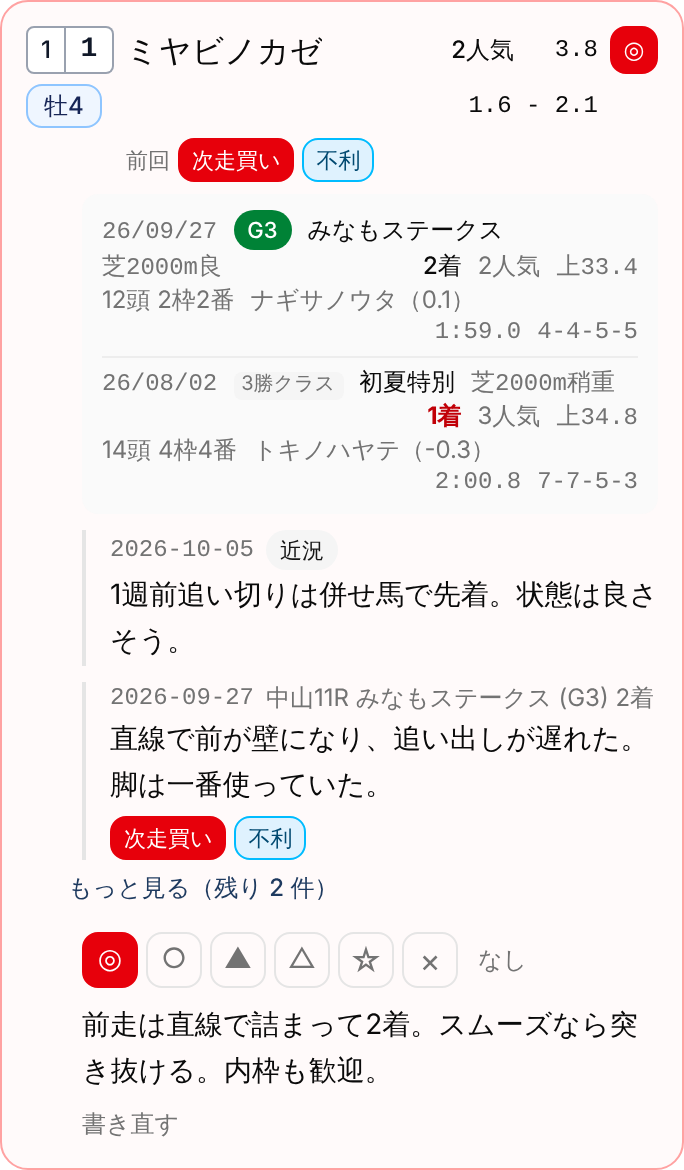
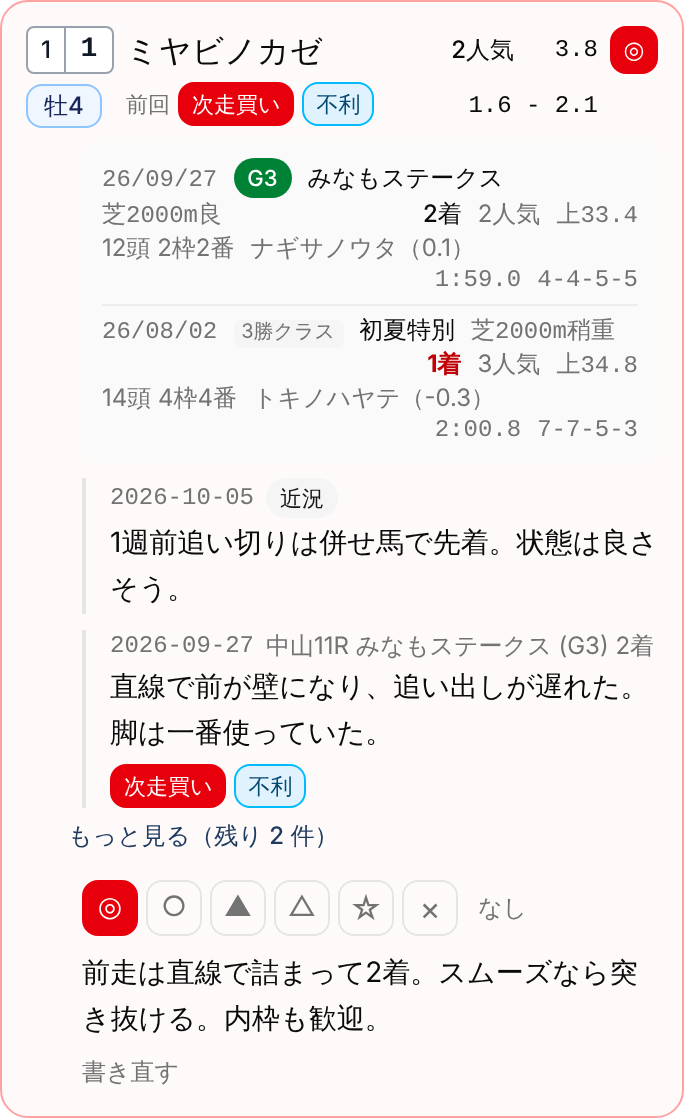
fix: 出走馬の見出しを任意値を使わない flex の列に組み直し、9文字の馬名を E2E で確かめる
- grid-cols-[…]・w-[5ch] の任意値をやめ、札・名前・オッズ・印の縦の列を横に並べる形にした
  （design-system.md 第5章）。オッズの列は w-21 で固定し、桁の違う馬でも位置がずれない
- 枠順の前（札が無い）は札の列の幅を取らず、馬名を左に寄せる
- E2E の seed の馬名を全角9文字（アナウマスペシャル）にし、390px で切れないことを確かめる
- 紹介ページの予想画面の出走馬のキャプチャを撮り直した

Claude-Session: https://claude.ai/code/session_01Jvjk2F9rCz6TgKVhPC9qEE

diff --git a/src/routes/races/[id]/preview/+page.svelte b/src/routes/races/[id]/preview/+page.svelte
@@ -389,95 +389,92 @@
 							? 'border-red-300 bg-red-50/40'
 							: ''}"
 					>
-						<!-- 見出しの行は1つの grid にして、2段の表にする。
-							     1段目: 札 / 馬名 / 人気 / 単勝 / 印、2段目: 性齢の札 / 騎手 / 複勝（人気と単勝の下）。
-							     前回の札があるときだけ3段目に、馬名の列から右端まで渡して置く。
-							     - 馬名と騎手は折り返さず（truncate）、1行に収める。スマホ（390px）でも全角9文字が
-							       切れずに入る幅を馬名の列に残す。入らない幅では … で切る。
-							     - 人気・単勝・複勝は幅を固定して右に寄せる。取消で値が無い馬や桁の違う馬でも、
-							       上下の行と位置がずれない（レイアウトシフトも起きない）。
-							     - 見える「単勝」「複勝」の文字は外した。スマホの1段目に文字を置く幅が無いため。
-							       値の形（単勝は1つの数・複勝は幅）と一覧の上の「単勝・複勝のオッズは…時点」で見分けられる。
-							       読み上げには sr-only で残す。
-							     - DOM の順は読む順（札 → 馬名 → 騎手 → 前回の札 → 人気 → 単勝 → 複勝 → 印）にして、
-							       見た目の位置は grid の col-start・row-start で決める。
-							     - 枠・馬番の札と性齢の札は、どの幅でも縦に並べる（列1の1段目と2段目）。
-							     各段の高さは h-6 / leading-6 / min-h-6 でそろえる。 -->
-						<div
-							class="grid items-center gap-x-1.5 gap-y-1 {data.oddsAsOf
-								? 'grid-cols-[auto_minmax(0,1fr)_auto_auto_auto]'
-								: 'grid-cols-[auto_minmax(0,1fr)_auto]'}"
-						>
-							<!-- 札の列。枠と馬番は1つの札にする（馬番の面は枠の色を薄くしたもの）。ふりかえり画面と
-								     同じ札にして、予想で見た枠と結果で見る枠が別物に見えないようにする。 -->
-							<span class="col-start-1 row-start-1 flex justify-self-start">
-								<HorseNumberBadge bracket={r.bracket} horseNumber={r.horseNumber} />
-							</span>
-							<!-- 枠・馬番の札の下に性齢の札（馬詳細と同じ。牡4）を置く。 -->
-							<SexAgeBadge
-								sex={r.sex}
-								label={r.sexAge}
-								class="col-start-1 row-start-2 justify-self-start"
-							/>
-							<a
-								href={resolve('/horses/[id]', { id: r.horseId })}
-								class="col-start-2 row-start-1 max-w-full justify-self-start truncate leading-6 font-medium hover:underline"
-							>
-								{r.horseName}
-							</a>
-							<!-- 騎手の画面へ。予想の最中に「この騎手はどう乗ってきたか」を騎乗とメモから見返す。
-								     スマホには hover が無いので、下線（点線）を常に出してリンクと分かるようにする。 -->
-							{#if r.jockey}
-								<a
-									href={resolve('/jockeys/[name]', { name: jockeyParam(r.jockey) })}
-									class="col-start-2 row-start-2 block min-h-6 max-w-full justify-self-start truncate text-sm leading-6 text-muted-foreground underline decoration-dotted underline-offset-2 hover:decoration-solid"
-								>
-									{r.jockey}
-								</a>
-							{/if}
-							<!-- この馬について最後に下した結論。16頭を見比べるときは本文まで読めないので、
-								     札だけを見出しに上げる（何を書いたかは下の過去メモにある）。折り返してよい。 -->
-							{#if conclusion}
+						<!-- 見出しの行は、縦に2段の列を横に4つ並べた表にする。
+						     札（枠・馬番 / 性齢）| 名前（馬名 / 騎手 / 前回の札）| オッズ（人気・単勝 / 複勝）| 印。
+						     - 列の幅は札・オッズ・印を固定して、残りを名前の列に渡す。取消で値が無い馬や桁の違う馬でも、
+						       上下の行と位置がずれない（レイアウトシフトも起きない）。
+						     - 馬名と騎手は折り返さず（truncate）、1行に収める。スマホ（390px）でも全角9文字が
+						       切れずに入る幅を名前の列に残す。入らない幅では … で切る。
+						     - 各列の1段目・2段目は高さ 24px（h-6 / leading-6 / min-h-6）、段の間はどの列も gap-1 にして、
+						       段を列どうしでそろえる。前回の札があるときだけ、名前の列が3段目の分だけ伸びる。
+						     - 見える「単勝」「複勝」の文字は外した。スマホの1段目に文字を置く幅が無いため。
+						       値の形（単勝は1つの数・複勝は幅）と一覧の上の「単勝・複勝のオッズは…時点」で見分けられる。
+						       読み上げには sr-only で残す。
+						     - DOM の順は読む順（札 → 馬名 → 騎手 → 前回の札 → 人気 → 単勝 → 複勝 → 印）。 -->
+						<div class="flex items-start gap-x-1.5">
+							<!-- 札の列（w-11 は枠・馬番の札の幅）。枠と馬番は1つの札にする（馬番の面は枠の色を薄くしたもの）。
+							     ふりかえり画面と同じ札にして、予想で見た枠と結果で見る枠が別物に見えないようにする。
+							     その下に性齢の札（馬詳細と同じ。牡4）を置く。
+							     枠順が出る前（札が無い）は幅を取らない。空の列が馬名を右へ押し出さないように。 -->
+							{#if r.bracket || r.horseNumber || r.sexAge}
 								<span
-									class="col-start-2 row-start-3 flex items-center gap-1 text-[11px] text-muted-foreground {data.oddsAsOf
-										? 'col-span-4'
-										: 'col-span-2'}"
-									title="{conclusion.occurredAt} に付けた札"
+									class="flex shrink-0 flex-col items-start gap-1 {r.bracket || r.horseNumber
+										? 'w-11'
+										: ''}"
 								>
-									前回
-									<TagBadges tags={conclusion.tags} />
+									<HorseNumberBadge bracket={r.bracket} horseNumber={r.horseNumber} />
+									<span class="flex h-6 items-center">
+										<SexAgeBadge sex={r.sex} label={r.sexAge} />
+									</span>
 								</span>
 							{/if}
 
-							<!-- オッズ。人気は w-10、単勝は nnn.n の5文字ぶん（w-[5ch]）、複勝は人気＋単勝の幅
-								     （nn.n - nn.n が収まる）に固定して右寄せにする。取消の馬（人気も値も無い）も空のセルで幅を保つ。 -->
+							<div class="flex min-w-0 flex-1 flex-col gap-1">
+								<a
+									href={resolve('/horses/[id]', { id: r.horseId })}
+									class="max-w-full self-start truncate leading-6 font-medium hover:underline"
+								>
+									{r.horseName}
+								</a>
+								<!-- 騎手の画面へ。予想の最中に「この騎手はどう乗ってきたか」を騎乗とメモから見返す。
+								     スマホには hover が無いので、下線（点線）を常に出してリンクと分かるようにする。 -->
+								{#if r.jockey}
+									<a
+										href={resolve('/jockeys/[name]', { name: jockeyParam(r.jockey) })}
+										class="min-h-6 max-w-full self-start truncate text-sm leading-6 text-muted-foreground underline decoration-dotted underline-offset-2 hover:decoration-solid"
+									>
+										{r.jockey}
+									</a>
+								{/if}
+								<!-- この馬について最後に下した結論。16頭を見比べるときは本文まで読めないので、
+								     札だけを見出しに上げる（何を書いたかは下の過去メモにある）。折り返してよい。 -->
+								{#if conclusion}
+									<span
+										class="flex items-center gap-1 text-[11px] text-muted-foreground"
+										title="{conclusion.occurredAt} に付けた札"
+									>
+										前回
+										<TagBadges tags={conclusion.tags} />
+									</span>
+								{/if}
+							</div>
+
+							<!-- オッズ。列の幅を固定する（w-21 = 84px）。1段目は人気（w-10）と単勝（w-9。nnn.n が入る）、
+							     2段目は複勝（nn.n - nn.n が入る）で、どれも右に寄せる。
+							     取消の馬（人気も値も無い）も空のセルで幅を保つ。 -->
 							{#if data.oddsAsOf}
-								<span
-									class="col-start-3 row-start-1 w-10 text-right text-xs leading-6 font-medium text-foreground"
+								<div
+									class="flex w-21 shrink-0 flex-col items-end gap-1 text-xs leading-6 font-medium text-foreground"
 								>
-									{#if r.popularity}{r.popularity}人気{/if}
-								</span>
-								<span
-									class="col-start-4 row-start-1 w-[5ch] text-right font-mono text-xs leading-6 font-medium text-foreground"
-								>
-									<span class="sr-only">単勝</span>{formatWinOdds(r.odds?.winOdds ?? null)}
-								</span>
-								<span
-									class="col-span-2 col-start-3 row-start-2 text-right font-mono text-xs leading-6 font-medium whitespace-nowrap text-foreground"
-								>
-									<span class="sr-only">複勝</span>{formatPlaceOdds(
-										r.odds?.placeOddsMin ?? null,
-										r.odds?.placeOddsMax ?? null
-									)}
-								</span>
+									<span class="flex justify-end gap-x-1.5">
+										<span class="w-10 text-right">
+											{#if r.popularity}{r.popularity}人気{/if}
+										</span>
+										<span class="w-9 text-right font-mono">
+											<span class="sr-only">単勝</span>{formatWinOdds(r.odds?.winOdds ?? null)}
+										</span>
+									</span>
+									<span class="text-right font-mono whitespace-nowrap">
+										<span class="sr-only">複勝</span>{formatPlaceOdds(
+											r.odds?.placeOddsMin ?? null,
+											r.odds?.placeOddsMax ?? null
+										)}
+									</span>
+								</div>
 							{/if}
 
 							<!-- 印の場所は、印が無くても取っておく。印の有無でオッズの位置が変わらないように。 -->
-							<span
-								class="row-start-1 flex size-6 shrink-0 {data.oddsAsOf
-									? 'col-start-5'
-									: 'col-start-3'}"
-							>
+							<span class="flex size-6 shrink-0">
 								<MarkBadge mark={r.myPreview?.mark ?? null} />
 							</span>
 						</div>

diff --git a/e2e/screens.ts b/e2e/screens.ts
@@ -265,7 +265,7 @@ export const SCREENS: Screen[] = [
 			const board = flow.getByRole('group', { name: /^4コーナーの隊列/ });
 			// 前から2列目・中の⑤をクリックで選び（フォーカスが乗る）、先頭・中の空きマスへ矢印キーで動かす。
 			// 先頭が左右どちらに描かれるかはレースの向きで決まるので、2つのマスの位置から押す矢印を決める。
-			const horse = board.getByRole('button', { name: /^5番 E2Eアナウマ（/ });
+			const horse = board.getByRole('button', { name: /^5番 アナウマスペシャル（/ });
 			const front = board.getByRole('button', { name: '先頭・中（空き）' });
 			await horse.click();
 			const [from, to] = [await horse.boundingBox(), await front.boundingBox()];
